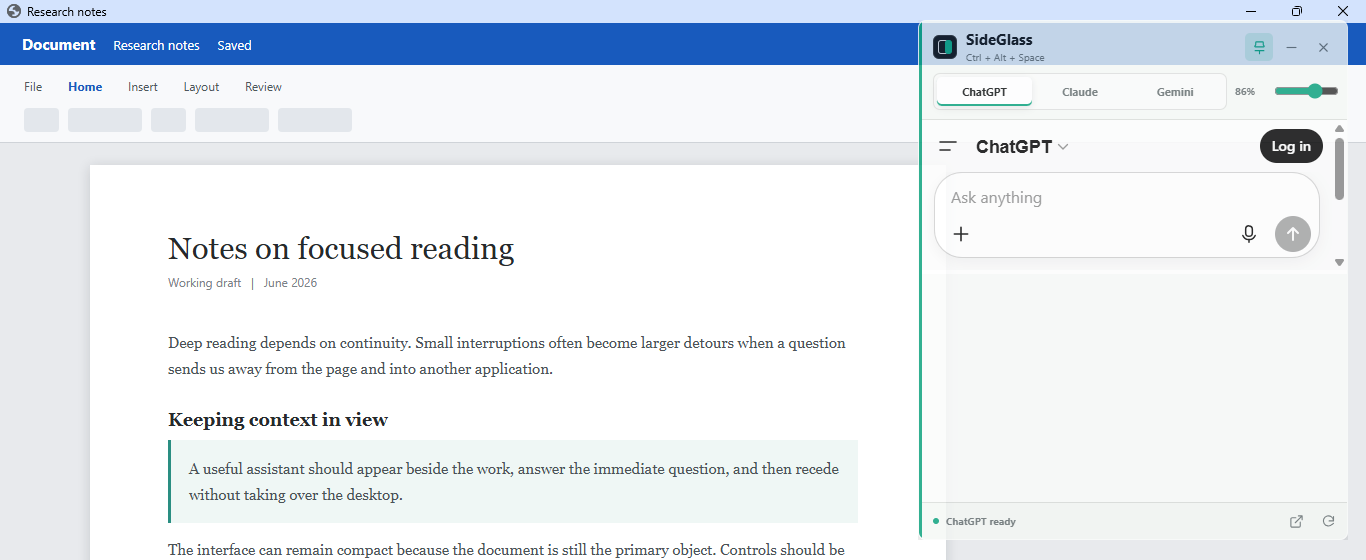
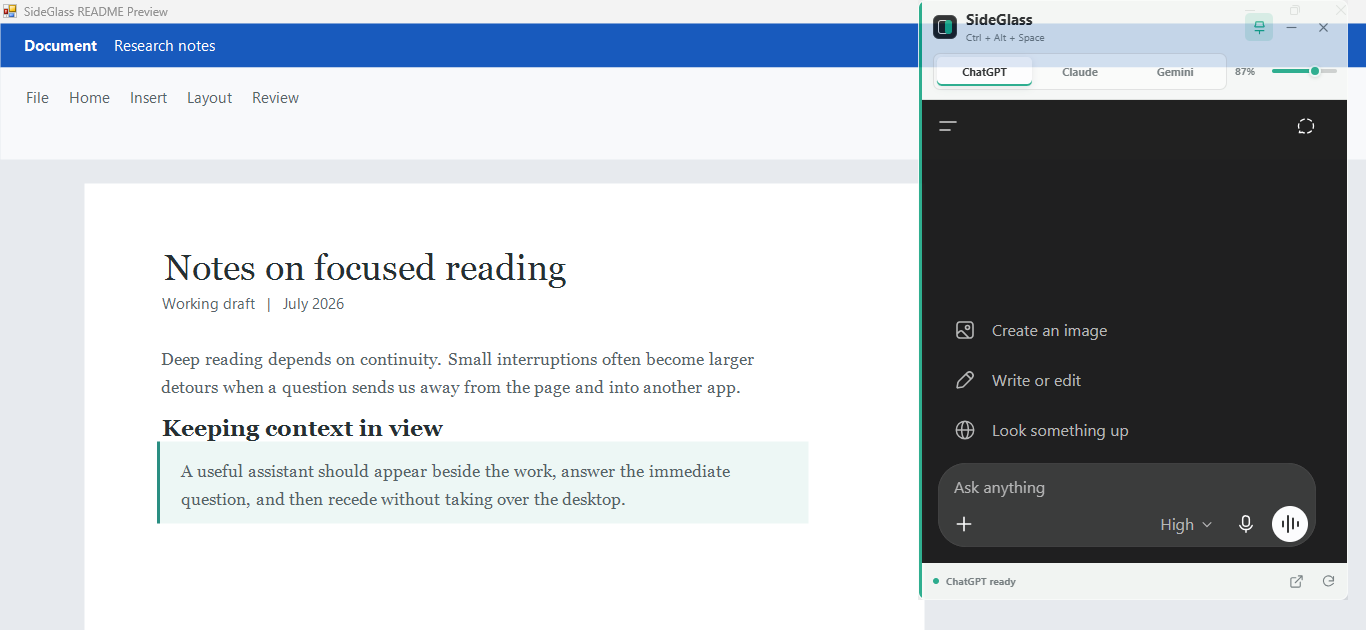
Document reliable browser sign-in workflow

diff --git a/README.md b/README.md
@@ -9,18 +9,23 @@
   [![No API key](https://img.shields.io/badge/API_key-not_required-10a37f?style=flat-square)](#how-it-works)
   [![MIT License](https://img.shields.io/badge/license-MIT-262a2c?style=flat-square)](LICENSE)
 
-  [Download for Windows](https://github.com/hasnain7abbas/sideglass/releases/latest/download/SideGlass-0.2.0.exe)
+  [Install for Windows](https://github.com/hasnain7abbas/sideglass/releases/latest/download/SideGlass-Setup-0.3.0.exe)
+  &nbsp; | &nbsp;
+  [Portable version](https://github.com/hasnain7abbas/sideglass/releases/latest/download/SideGlass-0.3.0.exe)
 </div>
 
 ![SideGlass open beside a document](docs/sideglass-preview.png)
 
 SideGlass is the small window I wanted while reading and writing: ChatGPT, Claude, or Gemini stays beside the current document instead of pulling the whole workflow into a browser. The window is translucent, always available through one shortcut, and quiet enough to leave open.
 
+Version 0.3 uses your normal Chrome or Edge session instead of an embedded login page. Existing accounts remain signed in, Google authentication works in the supported browser context, and SideGlass still keeps the provider fitted inside its compact frame.
+
 ## What it does
 
 - Keeps a compact AI window above other applications.
 - Switches between ChatGPT, Claude, and Gemini in one place.
-- Uses the providers' normal websites and your existing accounts, with no paid API key.
+- Reuses your normal Chrome or Edge profile, including existing provider sessions.
+- Uses the providers' real websites with no paid API key.
 - Remembers the selected provider, opacity, pin state, size, and position.
 - Restores an off-screen window safely after monitor changes.
 - Provides retry and browser fallback actions when a provider cannot load.
@@ -34,19 +39,25 @@ SideGlass is the small window I wanted while reading and writing: ChatGPT, Claud
 | Pin | Toggle always-on-top mode |
 | Opacity slider | Adjust the whole window from 58% to 100% |
 | Reload | Reload the current provider |
-| External link | Open the current provider in your browser |
+| External link | Sign in or open the current provider in the full browser |
 
 Drag the title area to move the window. Resize it from any edge like a normal desktop app.
 
+## Signing in
+
+SideGlass normally picks up the accounts already signed in to Chrome or Edge. If a provider still asks you to log in, use the external-link button in the footer. Complete sign-in in the full browser window, return to SideGlass, and press reload. The browser owns the session throughout; SideGlass does not copy passwords or cookies.
+
+This avoids the embedded-browser authentication restrictions that can otherwise block Google login or trigger an incorrect security-key prompt.
+
 ## How it works
 
-SideGlass is an Electron shell around each provider's real web app. Sign-in cookies and site data stay in a dedicated persistent session on your computer. SideGlass does not send prompts through its own server and does not require API credentials.
+SideGlass hosts a borderless Chrome or Edge app window inside its Electron frame and manages its size, visibility, opacity, and provider switching. It does not send prompts through its own server and does not require API credentials.
 
-Provider account rules and usage limits still apply. Their websites can also change without notice, so login challenges, CAPTCHA, or temporary embedding issues may occasionally appear.
+Provider account rules and usage limits still apply. Their websites can also change without notice, so login challenges, CAPTCHA, or temporary layout issues may occasionally appear.
 
 ## Run from source
 
-You need [Node.js](https://nodejs.org/) and npm.
+You need [Node.js](https://nodejs.org/), npm, and Google Chrome or Microsoft Edge on Windows.
 
 ```powershell
 git clone https://github.com/hasnain7abbas/sideglass.git
@@ -55,17 +66,23 @@ npm install
 npm start
 ```
 
-Build the portable Windows executable with:
+Build the recommended installer with:
+
+```powershell
+npm run dist:installer
+```
+
+Build the portable executable with:
 
 ```powershell
 npm run dist
 ```
 
-The output is written to `release/SideGlass-0.2.0.exe`.
+The outputs are written to `release/SideGlass-Setup-0.3.0.exe` and `release/SideGlass-0.3.0.exe`.
 
 ## Windows note
 
-The current portable build is not code-signed, so Windows SmartScreen may show a warning on first launch. The source and complete local build command are available above for anyone who prefers to build it directly.
+The current builds are not code-signed, so Windows SmartScreen may show a warning on first launch. The installer is recommended because it launches directly after the one-time installation; the portable version must unpack itself on every launch.
 
 ## License
 